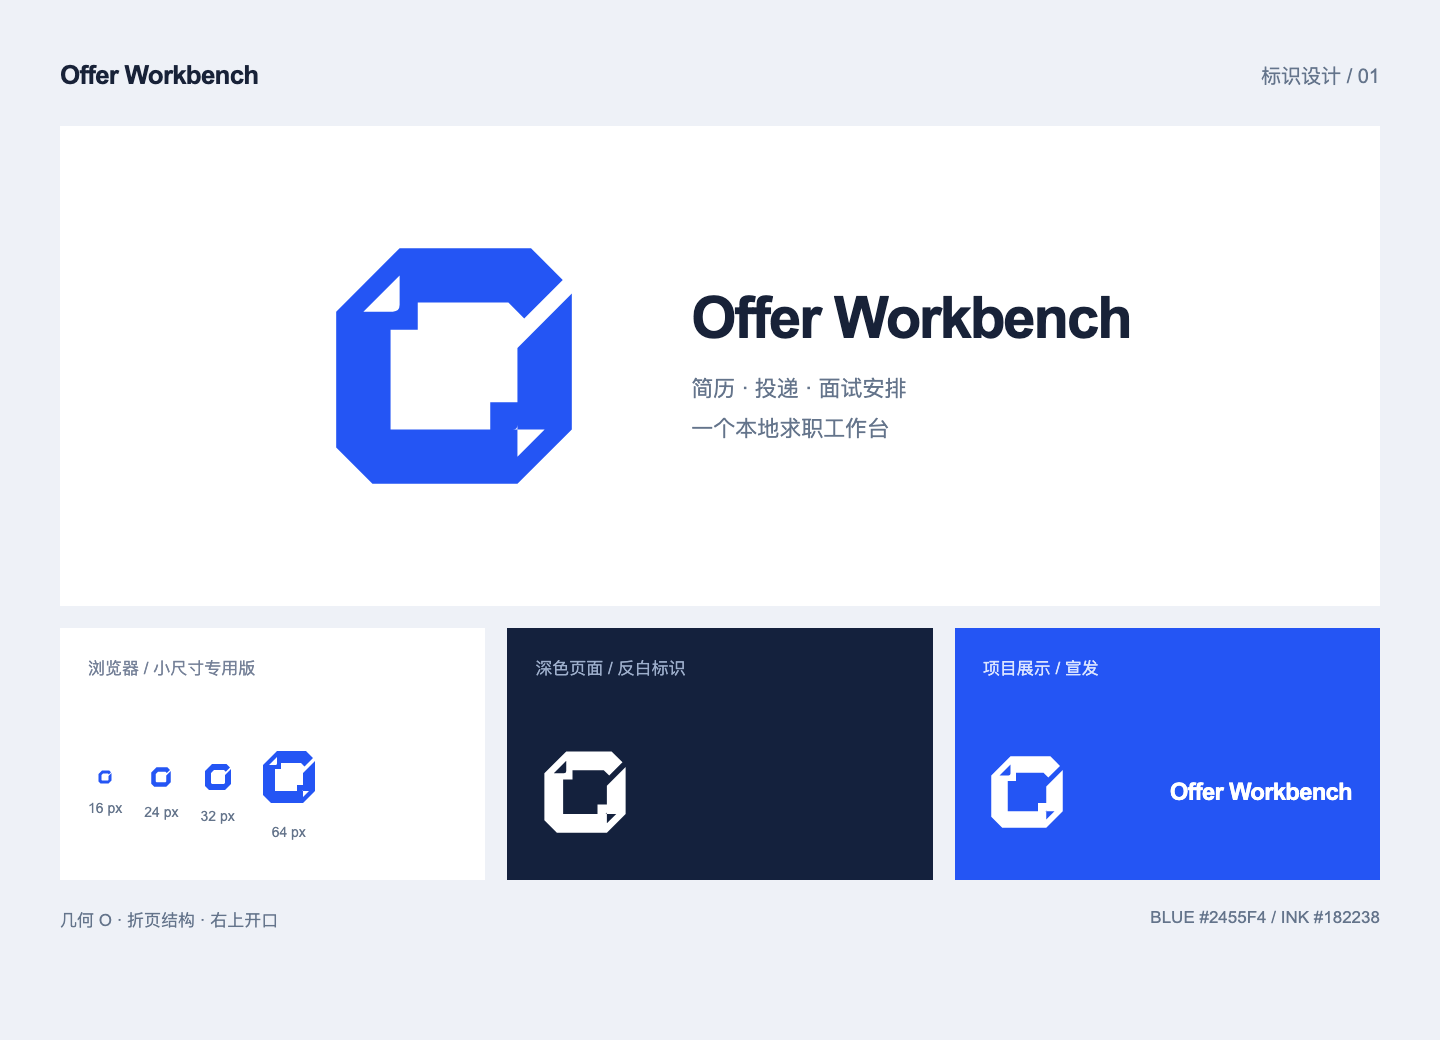
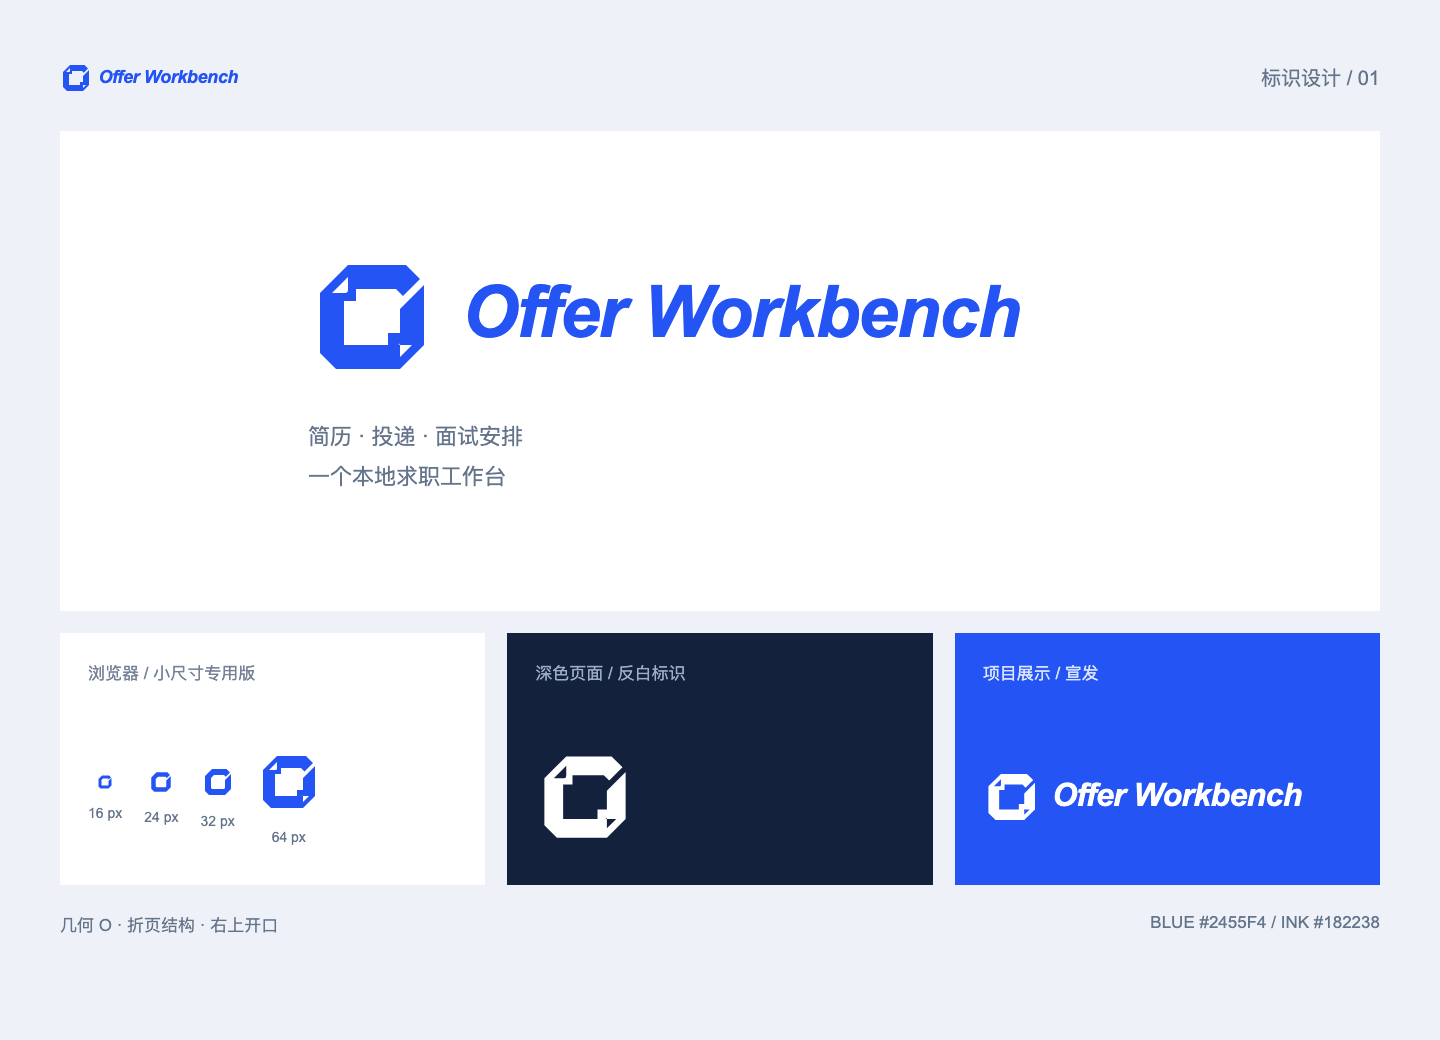
docs: align remaining static displays with shared wordmark

diff --git a/docs/brand/品牌预览.html b/docs/brand/品牌预览.html
@@ -1,1 +1,1 @@
-<!doctype html><html lang="zh-CN"><meta charset="utf-8"><style>*{box-sizing:border-box}body{margin:0;background:#eef1f7;color:#182238;font-family:Arial,"PingFang SC",sans-serif}.board{width:1440px;height:1040px;padding:60px}.top{display:flex;justify-content:space-between;align-items:center;font-size:20px;color:#64748b}.top b{color:#182238;font-size:26px;letter-spacing:-.8px}.hero{margin-top:35px;background:#fff;height:480px;display:flex;align-items:center;justify-content:center;gap:92px}.hero>img{width:290px}.hero h1{font-size:58px;letter-spacing:-2px;font-weight:600;margin:0 0 18px}.hero p{font-size:22px;color:#64748b;margin:0;line-height:1.8}.bottom{display:grid;grid-template-columns:1fr 1fr 1fr;gap:22px;margin-top:22px}.sample{height:252px;background:#fff;padding:28px;display:flex;flex-direction:column;justify-content:space-between}.sample label{font-size:17px;color:#758198}.row{display:flex;align-items:center;gap:22px;height:120px}.row span{font-size:14px;display:flex;flex-direction:column;align-items:center;gap:15px;color:#64748b}.dark{background:#14213d}.dark label{color:#9daecb}.dark img{width:100px}.blue{background:#2455f4}.blue label{color:#dce5ff}.blue .row{justify-content:space-between}.blue img{width:88px}.blue strong{font-size:24px;color:white;letter-spacing:-.8px}.foot{display:flex;justify-content:space-between;color:#64748b;font-size:17px;margin-top:28px}</style><div class="board"><div class="top"><b>Offer Workbench</b><span>标识设计 / 01</span></div><div class="hero"><img src="logo/mark-blue.svg"><div><h1>Offer Workbench</h1><p>简历 · 投递 · 面试安排<br>一个本地求职工作台</p></div></div><div class="bottom"><div class="sample"><label>浏览器 / 小尺寸专用版</label><div class="row"><span><img width="16" src="logo/mark-small.svg">16 px</span><span><img width="24" src="logo/mark-small.svg">24 px</span><span><img width="32" src="logo/mark-small.svg">32 px</span><span><img width="64" src="logo/mark-blue.svg">64 px</span></div></div><div class="sample dark"><label>深色页面 / 反白标识</label><div class="row"><img src="logo/mark-white.svg"></div></div><div class="sample blue"><label>项目展示 / 宣发</label><div class="row"><img src="logo/mark-white.svg"><strong>Offer Workbench</strong></div></div></div><div class="foot"><span>几何 O · 折页结构 · 右上开口</span><span>BLUE #2455F4 / INK #182238</span></div></div></html>
+<!doctype html><html lang="zh-CN"><meta charset="utf-8"><style>*{box-sizing:border-box}body{margin:0;background:#eef1f7;color:#182238;font-family:Arial,"PingFang SC",sans-serif}.board{width:1440px;height:1040px;padding:60px}.top{display:flex;justify-content:space-between;align-items:center;font-size:20px;color:#64748b}.top b{color:#182238;font-size:26px;letter-spacing:-.8px}.hero{margin-top:35px;background:#fff;height:480px;display:flex;align-items:center;justify-content:center;gap:92px}.hero>img{width:290px}.hero h1{font-size:58px;letter-spacing:-2px;font-weight:600;margin:0 0 18px}.hero p{font-size:22px;color:#64748b;margin:0;line-height:1.8}.bottom{display:grid;grid-template-columns:1fr 1fr 1fr;gap:22px;margin-top:22px}.sample{height:252px;background:#fff;padding:28px;display:flex;flex-direction:column;justify-content:space-between}.sample label{font-size:17px;color:#758198}.row{display:flex;align-items:center;gap:22px;height:120px}.row span{font-size:14px;display:flex;flex-direction:column;align-items:center;gap:15px;color:#64748b}.dark{background:#14213d}.dark label{color:#9daecb}.dark img{width:100px}.blue{background:#2455f4}.blue label{color:#dce5ff}.blue .row{justify-content:space-between}.blue img{width:88px}.blue strong{font-size:24px;color:white;letter-spacing:-.8px}.foot{display:flex;justify-content:space-between;color:#64748b;font-size:17px;margin-top:28px}</style><div class="board"><div class="top"><img src="logo/wordmark.svg" alt="Offer Workbench" width="206" height="36"><span>标识设计 / 01</span></div><div class="hero"><div><img src="logo/wordmark.svg" alt="Offer Workbench" style="width:824px;height:144px;margin-bottom:24px"><p>简历 · 投递 · 面试安排<br>一个本地求职工作台</p></div></div><div class="bottom"><div class="sample"><label>浏览器 / 小尺寸专用版</label><div class="row"><span><img width="16" src="logo/mark-small.svg">16 px</span><span><img width="24" src="logo/mark-small.svg">24 px</span><span><img width="32" src="logo/mark-small.svg">32 px</span><span><img width="64" src="logo/mark-blue.svg">64 px</span></div></div><div class="sample dark"><label>深色页面 / 反白标识</label><div class="row"><img src="logo/mark-white.svg"></div></div><div class="sample blue"><label>项目展示 / 宣发</label><div class="row"><img src="logo/wordmark.svg" alt="Offer Workbench" style="width:100%;filter:brightness(0) invert(1)"></div></div></div><div class="foot"><span>几何 O · 折页结构 · 右上开口</span><span>BLUE #2455F4 / INK #182238</span></div></div></html>

diff --git a/docs/VALIDATION.md b/docs/VALIDATION.md
@@ -7,7 +7,7 @@
 | Python | 92项通过：素材版本冲突、三协议请求／响应、无网络预览、一次确认、预算／配置变化拒绝、原句与数字约束、采纳撤销及中断恢复、v4／旧备份与失败无损、最低字号 |
 | Node | 51项通过，覆盖编辑器、偏好、岗位准备与薪酬既有行为 |
 | Chrome | 38项主流程＋9项补充通过：保存素材、配置不回显、预览确认、核实采纳和撤销、JD原句／统计、失败留稿、慢生成切页、压缩／推荐与多协议配置 |
-| 布局与品牌 | 1024／768／390／320px各AI子页与编辑页无横向溢出；两工作台字标位置一致；名称文字坐标左对齐、去冗余圆点、边缘渐隐；查看桌面及手机截图，13份品牌PNG重新渲染 |
+| 布局与品牌 | 1024／768／390／320px各AI子页与编辑页无横向溢出；两工作台字标位置一致；名称文字坐标左对齐、去冗余圆点、边缘渐隐；查看桌面及手机截图，14份品牌／旅程PNG重新渲染 |
 | 清洁包 | 125白名单文件，独立解压启动、13条HTTP接口和合成一页PDF通过；最低字号以上多页PDF用例通过 |
 | 隐私 | 125文件门禁通过；数据、配置、密钥、浏览器档案、日志和私人营销材料未入包 |
 

diff --git a/docs/design/USER_JOURNEY.md b/docs/design/USER_JOURNEY.md
@@ -1,6 +1,6 @@
 # 用户旅程与流程对照
 
-版本：v0.7.0；整理日期：2026-11-23。图中痛点来自用户提供的旅程，感受为推断；公开内容不含个人资料或私有文档链接。
+版本：v0.7.0；整理日期：2026-11-23。品牌字标于2026-11-25统一更新；流程能力标注保留v0.7.0历史口径，当前能力见PROJECT.md。图中痛点来自用户提供的旅程，感受为推断；公开内容不含个人资料或私有文档链接。
 
 ![用户旅程与原始流程对照](../images/user-journey.png)
 
